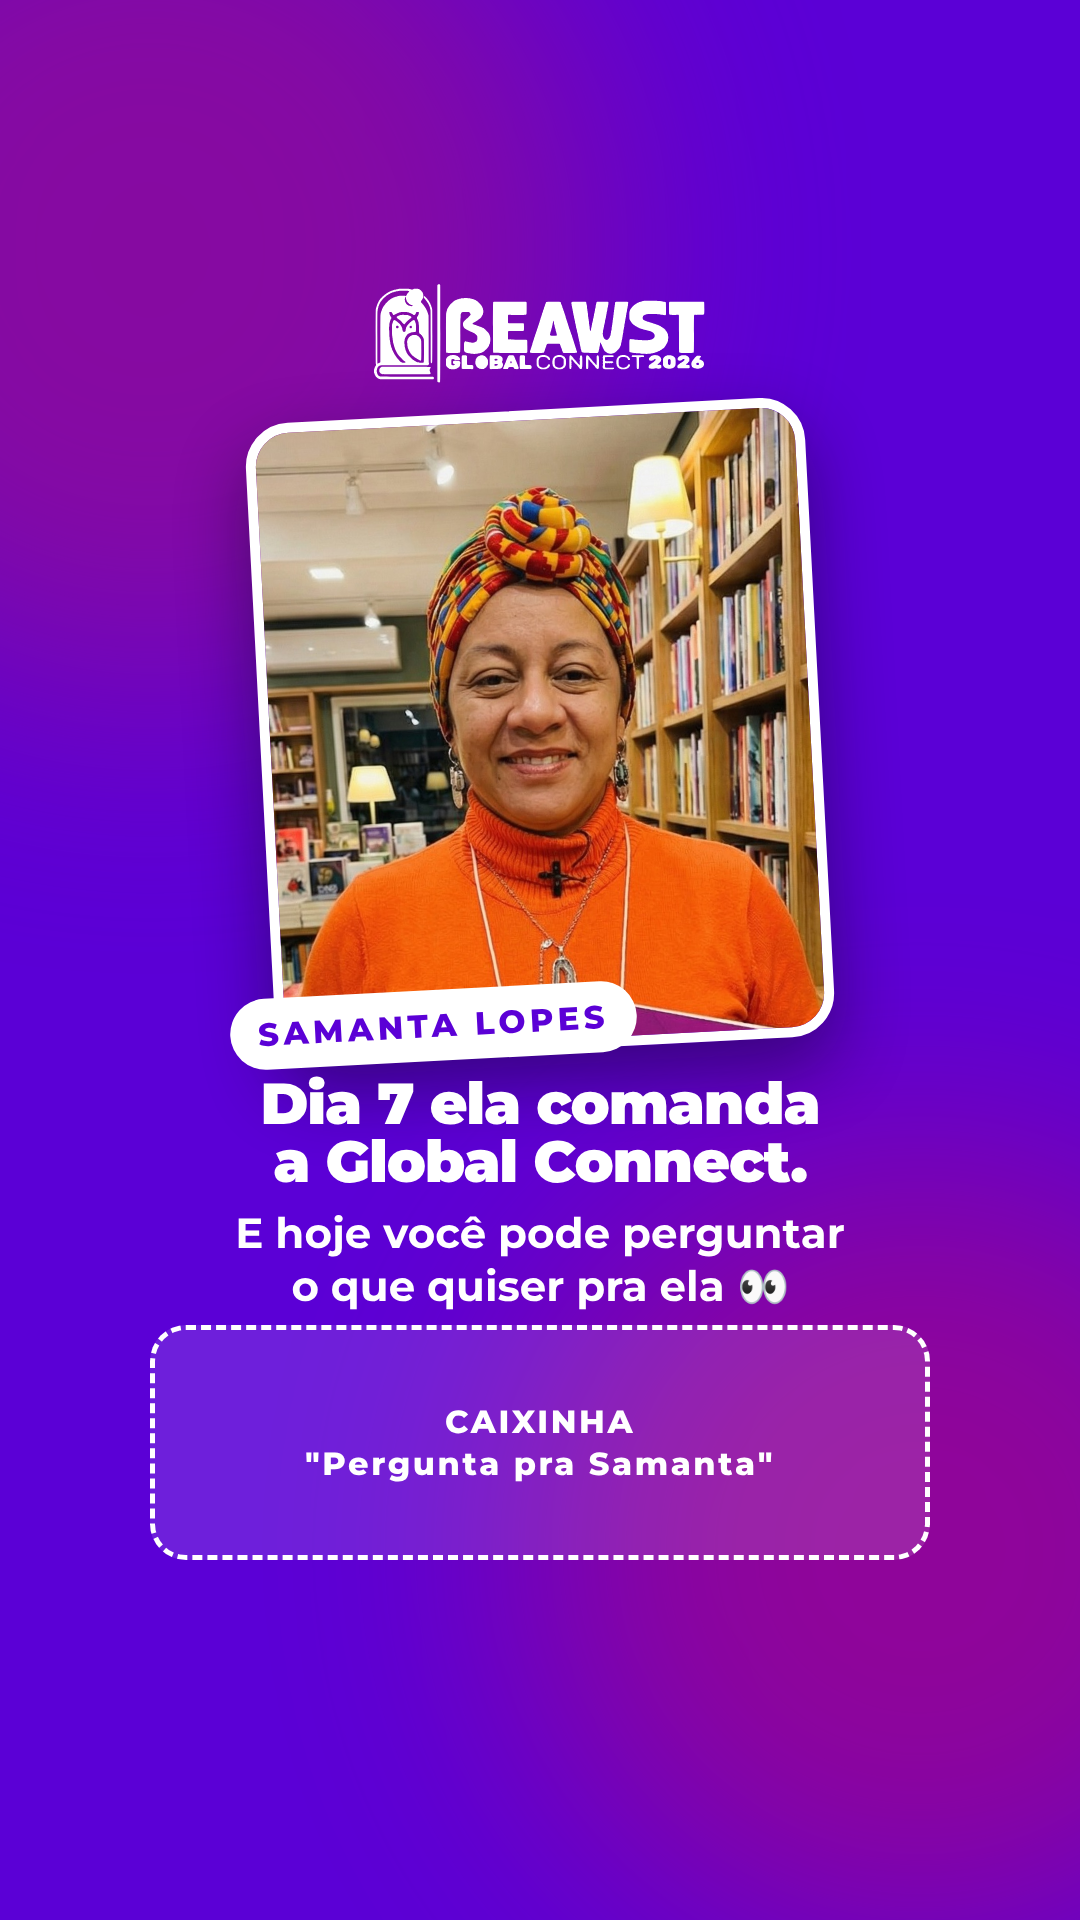
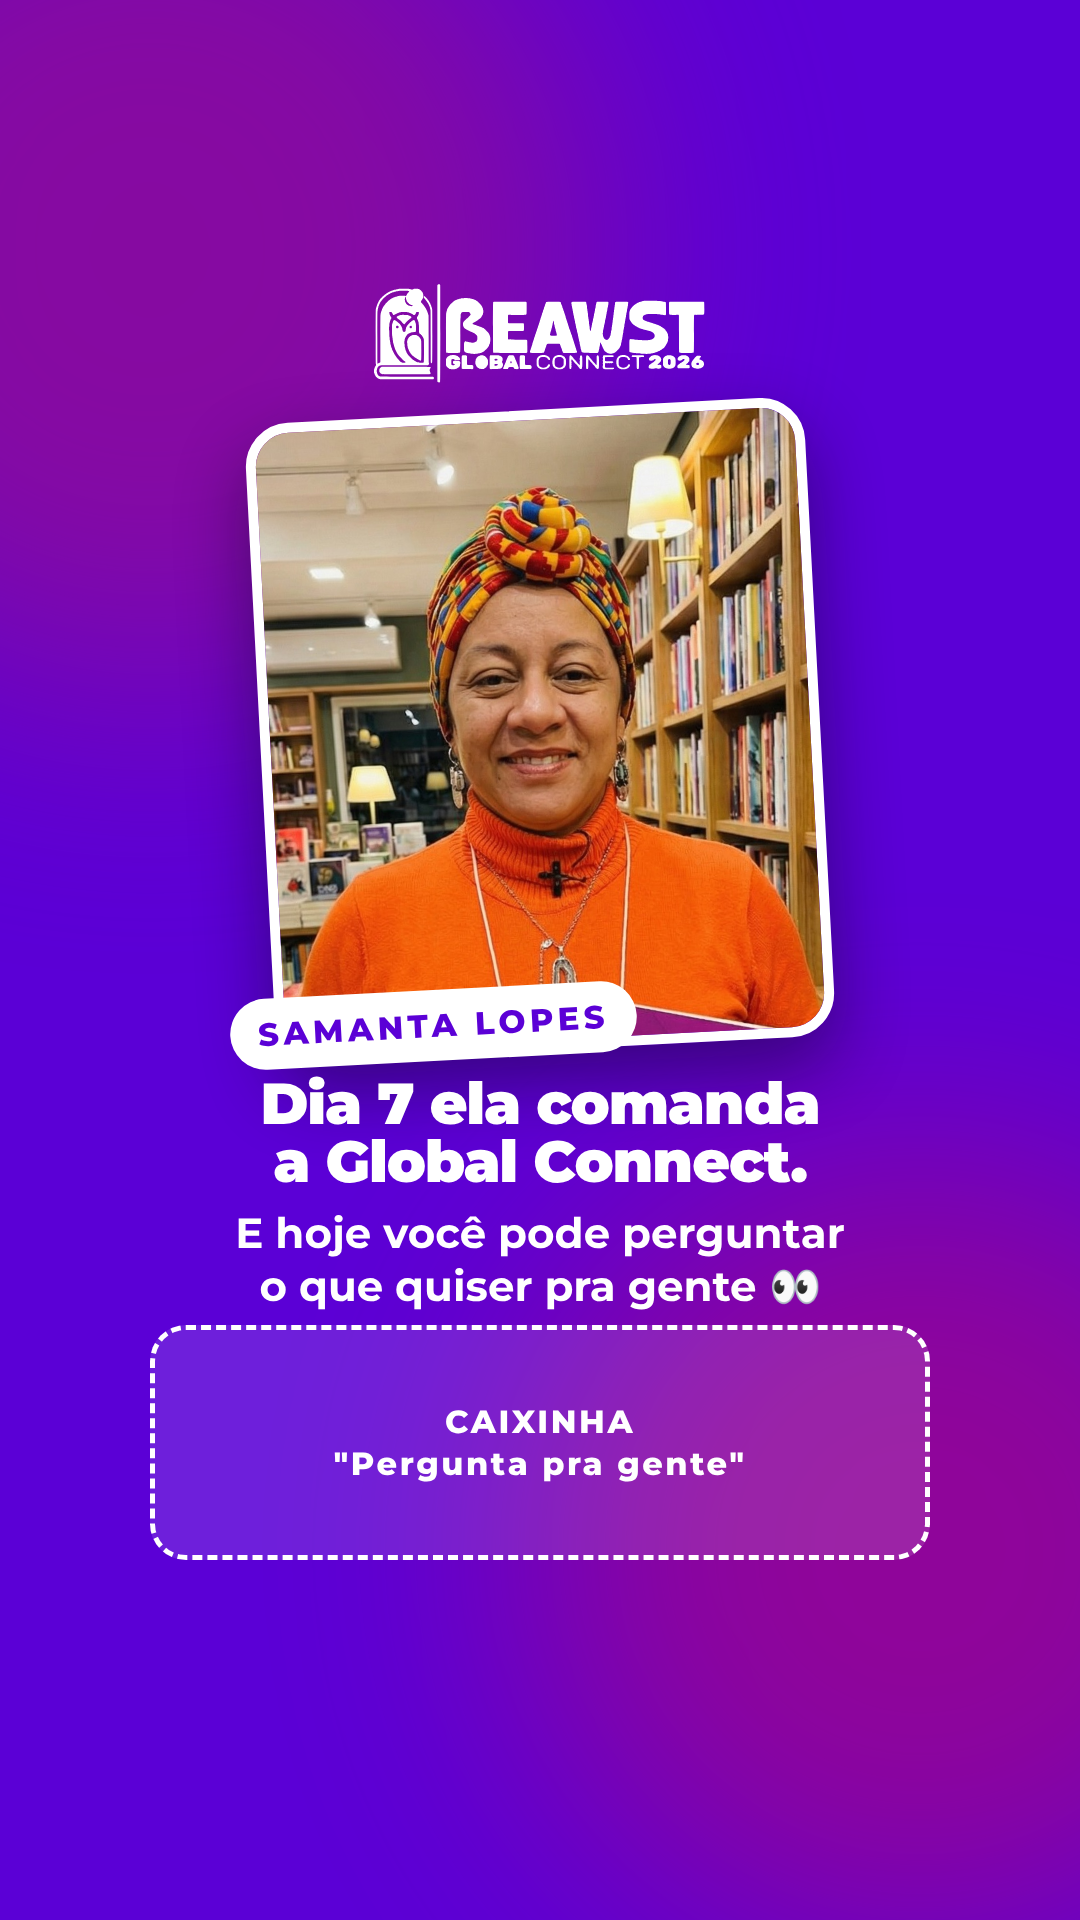
Stories 28/10: caixinha 'pergunta pra gente' (equipe Beawst)
Claude-Session: https://claude.ai/code/session_01KyHVk97BxwCKQz2piQjfor

Changed region(s): [[0.2444, 0.6562, 0.7639, 0.6875], [0.275, 0.75, 0.7028, 0.7812]]

diff --git a/beawst-stories-28-10/stories.html b/beawst-stories-28-10/stories.html
@@ -40,7 +40,7 @@ body.guia .guide{display:flex}
 </head>
 <body>
 
-<!-- 1. Caixinha pra Samanta -->
+<!-- 1. Caixinha: pergunta pra gente (equipe Beawst) -->
 <div class="story" id="s1" style="background:var(--roxo)">
   <div class="glow" style="width:900px;height:900px;background:var(--magenta);opacity:.6;left:-300px;top:-200px"></div>
   <div class="glow" style="width:800px;height:800px;background:var(--vermelho);opacity:.35;left:520px;top:1150px"></div>
@@ -51,9 +51,9 @@ body.guia .guide{display:flex}
   <div class="abs" style="left:230px;top:990px;transform:rotate(-3deg)"><span class="pill" style="background:#fff;color:var(--roxo);font-size:32px">Samanta Lopes</span></div>
   <div class="abs c" style="top:1075px">
     <div class="huge" style="font-size:58px">Dia 7 ela comanda a Global Connect.</div>
-    <div style="font-weight:700;font-size:42px;line-height:1.25;margin-top:16px">E hoje você pode perguntar o que quiser pra ela <span class="emoji">👀</span></div>
+    <div style="font-weight:700;font-size:42px;line-height:1.25;margin-top:16px">E hoje você pode perguntar o que quiser pra gente <span class="emoji">👀</span></div>
   </div>
-  <div class="guide" style="top:1325px;height:235px;color:#fff;background:rgba(255,255,255,.12)">CAIXINHA<br>"Pergunta pra Samanta"</div>
+  <div class="guide" style="top:1325px;height:235px;color:#fff;background:rgba(255,255,255,.12)">CAIXINHA<br>"Pergunta pra gente"</div>
 </div>
 
 <!-- 2. Caixinha de dúvidas (Irlanda e Malta) -->

diff --git a/beawst-stories-28-10/README.md b/beawst-stories-28-10/README.md
@@ -1,6 +1,6 @@
 # Stories 28/10: dia de caixinha
 
-1. `out/story-1-caixinha-samanta.png`: adesivo de **caixinha** "Pergunta pra Samanta"
+1. `out/story-1-caixinha-samanta.png`: adesivo de **caixinha** "Pergunta pra gente"
 2. `out/story-2-caixinha-duvidas.png`: adesivo de **caixinha** "Manda aqui, sem vergonha"
 3. `out/story-3-link-contagem.png`: adesivos de **contagem regressiva** "Beawst Global Connect" + **link** de inscrição
 
